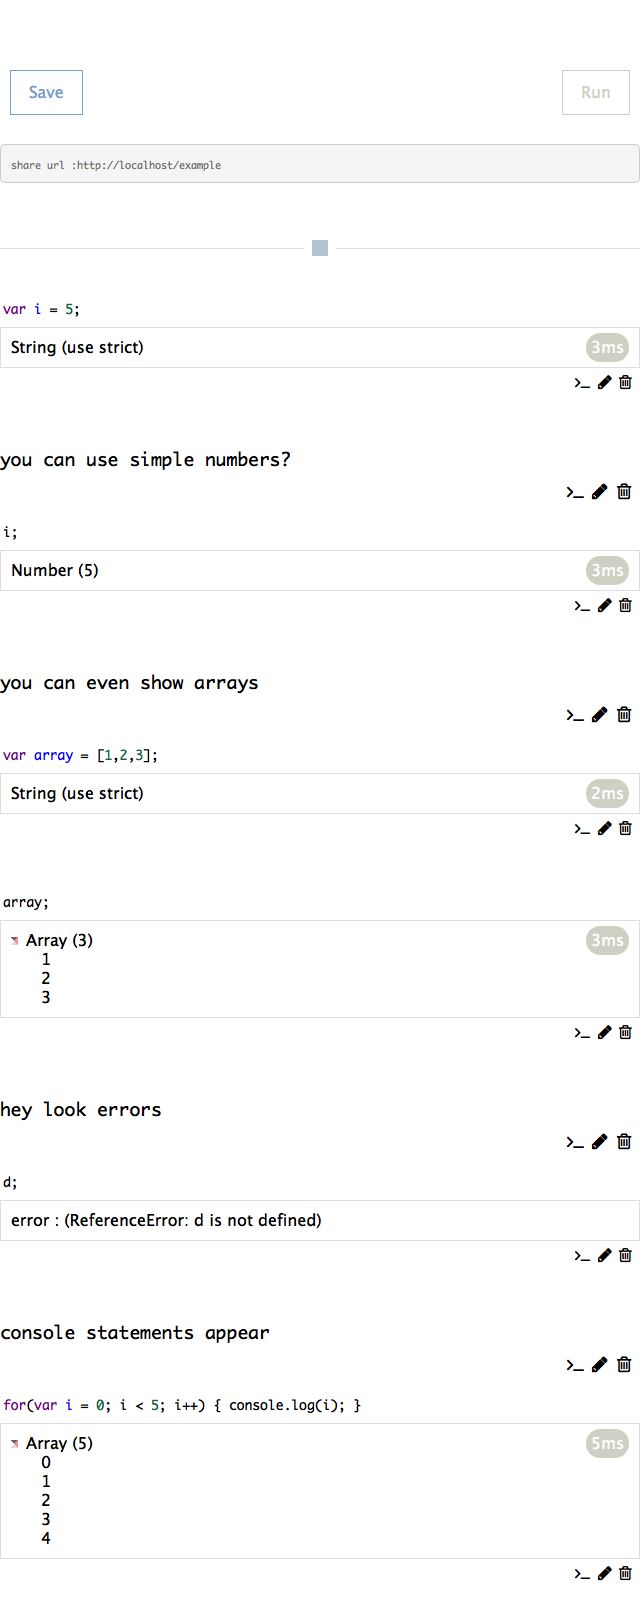
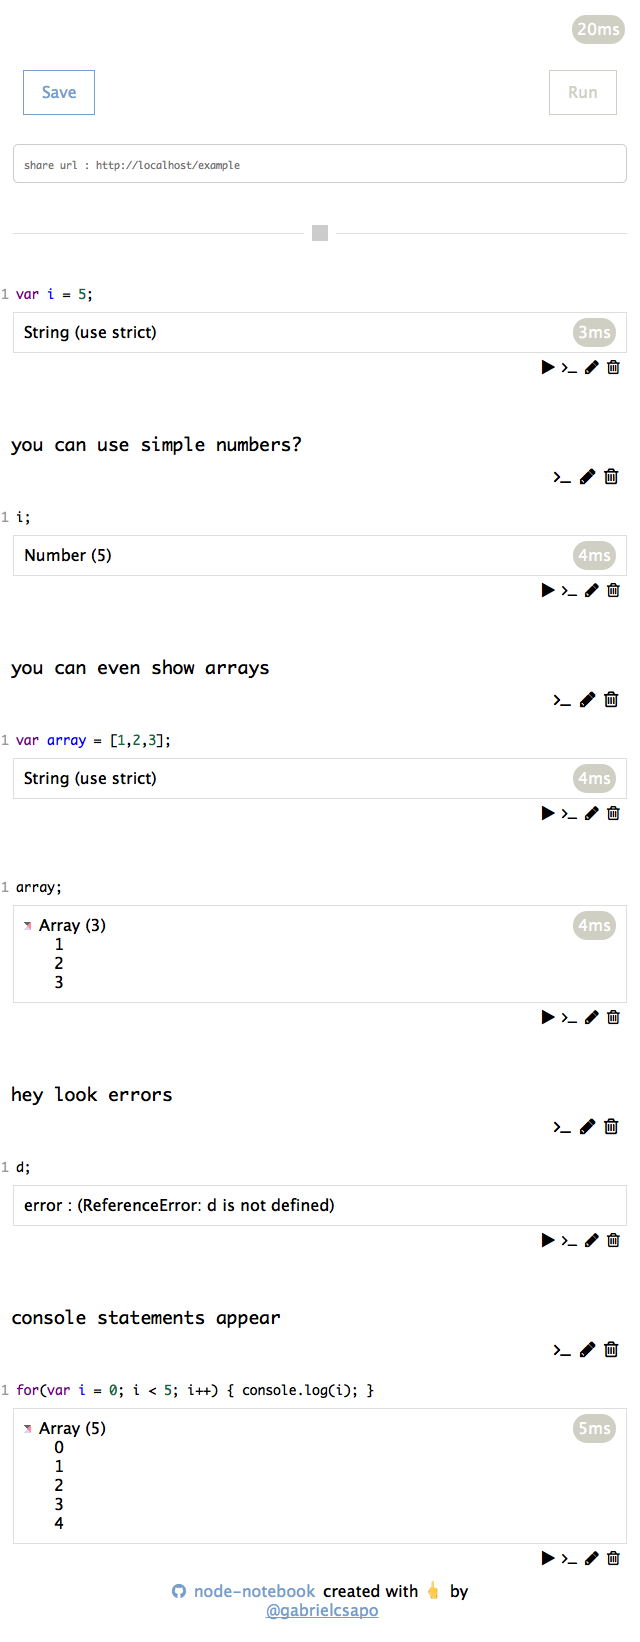
adds overall time badge to the top right hand corner fixes css issues updates screenshots

diff --git a/views/assets/app.js b/views/assets/app.js
@@ -1,6 +1,8 @@
 /*global CodeMirror */
 var session = location.pathname !== '/' ? location.pathname.replace('/', '') : Date.now();
 
+var total_time = 0;
+
 var editors = {};
 
 var parse = function(req) {
@@ -12,6 +14,7 @@ var parse = function(req) {
     var html = '';
 
     if(time) {
+        total_time += Math.floor(time.replace('ms', ''));
         html += '<span style="float: right;margin-top: -5px;" class="badge badge-default">' + time + '</span>';
     }
     if(error) {
@@ -65,7 +68,8 @@ var parse = function(req) {
     return html;
 }
 
-var run = function(id, code) {
+var run = function(id, callback) {
+    var code = editors[id].editor.getValue();
     document.getElementById(id + '-code-loading').style.display = 'block';
 
     var xhr = new XMLHttpRequest();
@@ -77,6 +81,7 @@ var run = function(id, code) {
             document.getElementById(id + '-code-response').style.display = 'block';
             document.getElementById(id + '-code-tooltip').style.display = 'none';
             document.getElementById(id + '-code-loading').style.display = 'none';
+            callback();
         }
     }
     xhr.send(JSON.stringify({
@@ -127,7 +132,7 @@ var createCodeBlock = function(id, script) {
     '<i id="'+now+'-code-tooltip" class="code-tooltip"><small>type code and press shift + enter to run</small></i>' +
     '<div id="'+now+'-code-response" class="code-response"></div>' +
     '<div id="'+now+'-code-loading" class="code-loading"><div class="spinner-overlay"><div class="spinner-wrapper"><div class="spinner spinner-info"></div></div></div></div>' +
-    '<i id="'+now+'-code-actions" class="code-actions"><i class="fa fa-terminal" onclick="createCodeBlock(\''+(now)+'\');">&nbsp;&nbsp;</i><i class="fa fa-pencil" onclick="createTextBlock(\''+(now)+'\');">&nbsp;&nbsp;</i><i class="fa fa-trash-o" onclick="deleteBlock(\''+(now)+'\');">&nbsp;&nbsp;</i></i>' +
+    '<i id="'+now+'-code-actions" class="code-actions"><i class="fa fa-play" onclick="run(\''+(now)+'\');">&nbsp;&nbsp;</i><i class="fa fa-terminal" onclick="createCodeBlock(\''+(now)+'\');">&nbsp;&nbsp;</i><i class="fa fa-pencil" onclick="createTextBlock(\''+(now)+'\');">&nbsp;&nbsp;</i><i class="fa fa-trash-o" onclick="deleteBlock(\''+(now)+'\');">&nbsp;&nbsp;</i></i>' +
     '</div><br><br>';
     div.innerHTML = html;
     if(id) {
@@ -155,20 +160,35 @@ var createCodeBlock = function(id, script) {
     editor.on('keydown', function(cm, e) {
         if (e.keyIdentifier == 'Enter' && e.shiftKey == true) {
             e.preventDefault();
-            run(now, editor.getValue());
+            run(now);
         }
     });
     editor.id = now;
     return editor;
 }
 
-var startup = function() {
-    var storedValues;
-    if (/PhantomJS/.test(window.navigator.userAgent)) {
-        storedValues = document.querySelector('.code-container').dataset['storedValues']
-    } else {
-        storedValues = document.querySelector('.code-container').dataset['stored-values'];
+var run_all = function() {
+    total_time = 0;
+    var count = 0;
+    var done = function() {
+        if(count == 0) {
+            document.getElementById('total-time').innerHTML = total_time + 'ms';
+        }
     }
+    for(var key in editors) {
+        if(editors[key].type == 'script') {
+            count++;
+            run(editors[key].editor.id, function() {
+                count--;
+                done();
+            });
+        }
+    }
+}
+
+var startup = function() {
+    var storedValues = document.querySelector('.code-container').dataset['storedValues'] ||
+                       document.querySelector('.code-container').dataset['stored-values']
 
     if (storedValues) {
         if(JSON.parse(storedValues).length > 0) {
@@ -176,13 +196,13 @@ var startup = function() {
                 switch(v.type) {
                     case 'script':
                         var editor = createCodeBlock(undefined, v.value);
-                        run(editor.id, editor.getValue());
                         break;
                     case 'text':
                         createTextBlock(undefined, v.value);
                         break;
                 }
             });
+            run_all();
         } else {
             createCodeBlock();
         }
@@ -212,11 +232,7 @@ var startup = function() {
     }
 
     document.getElementById('btn-run-all').onclick = function() {
-        for(var key in editors) {
-            if(editors[key].type == 'script') {
-                run(editors[key].editor.id, editors[key].editor.getValue());
-            }
-        }
+        run_all();
     }
 }
 

diff --git a/views/assets/app.css b/views/assets/app.css
@@ -2,7 +2,7 @@ hr {
     display: block;
     border: 0 solid #e0dedf;
     border-bottom-width: 1px;
-    margin: 65px auto 10px auto;
+    margin: 50px auto 10px auto;
     max-width: 100%;
     position: relative
 }
@@ -25,6 +25,9 @@ hr:before {
 .CodeMirror-gutters {
     background-color: transparent;
     border-right: 0;
+}
+pre {
+    background-color: transparent;
 }
 .code-loading {
     border: 1px solid #dedede;
@@ -50,6 +53,9 @@ hr:before {
     float: right;
     margin-top: 5px;
 }
+.code-actions > .fa-play {
+    display: none;
+}
 .code-container {
     width:50%;
     margin:0 auto;
@@ -57,12 +63,38 @@ hr:before {
 }
 @media (width: 320px) {
     .code-container {
-        width: 100%;
+        width: 96%;
+        padding-left: 2%;
+        padding-right: 2%;
+        margin-top:10px;
+        padding-bottom: 2%;
+        padding-bottom: 2%;
+    }
+    .CodeMirror {
+        margin-left: 0px;
+    }
+    .code-actions {
+        width:100%;
+        text-align: center;
+    }
+    .code-actions > * {
+        font-size: 28px;
+    }
+    .code-actions > .fa-play {
+        display: inline-block;
+    }
+    .code-tooltip {
+        width:100%;
     }
 }
 @media (width: 640px) {
     .code-container {
-        width: 100%;
+        width: 96%;
+        padding-left: 2%;
+        padding-right: 2%;
+    }
+    .code-actions > .fa-play {
+        display: inline-block;
     }
 }
 

diff --git a/lib/vm.js b/lib/vm.js
@@ -112,7 +112,11 @@ var _self = module.exports = {
                 module: module,
                 console: {
                     log: function() {
-                        vm_cache[session].trace.push(arguments[0]);
+                        var raw = '';
+                        for(key in arguments) {
+                            raw += arguments[key] + ' ';
+                        }
+                        vm_cache[session].trace.push(raw);
                     }
                 },
                 error: undefined,

diff --git a/Gruntfile.js b/Gruntfile.js
@@ -15,7 +15,7 @@ module.exports = function(grunt) {
                             type: 'remote',
                             src: 'http://localhost:3000',
                             dest: 'new.png',
-                            delay: '3000'
+                            delay: '1000'
                     }],
                     viewport: ['1920x1080', '1024x768', '640x960', '320x480']
                 }
